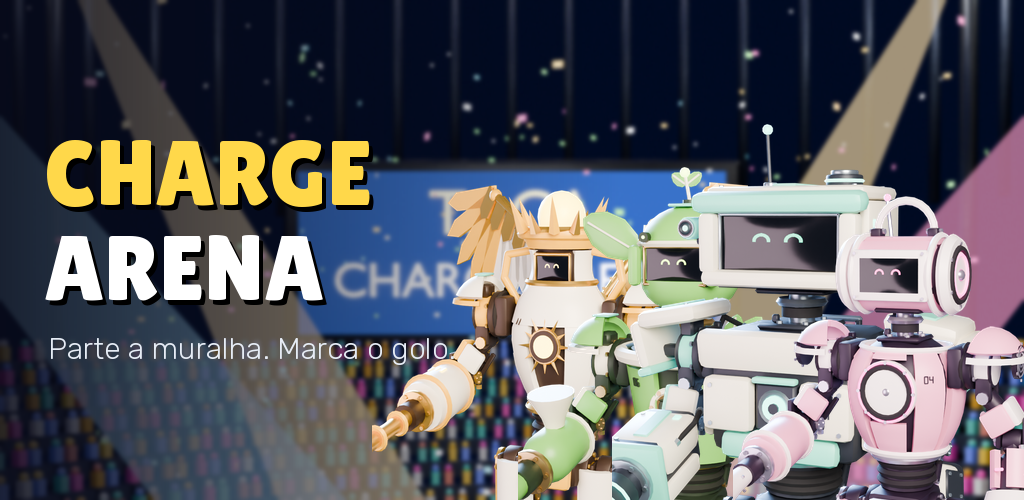
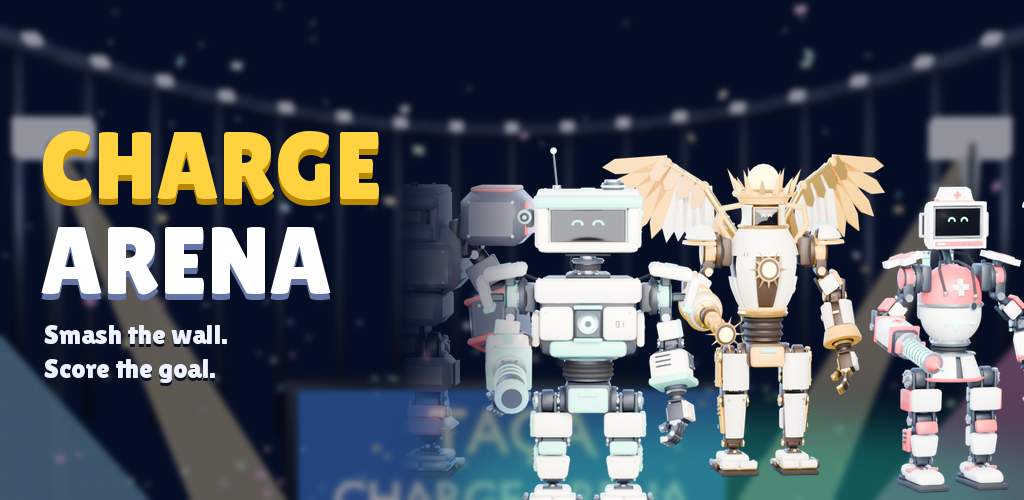
Imagem de destaque da loja com o elenco novo (BATIDA, ROSCA e ECLIPSE redesenhados)
tools/blender/hero_lineup.py renderiza o elenco lado a lado, de corpo inteiro.

Claude-Session: https://claude.ai/code/session_013KJk6qvd1GbsmYQztrRAPe

diff --git a/tools/blender/hero_lineup.py b/tools/blender/hero_lineup.py
@@ -1,0 +1,81 @@
+"""O elenco do Charge Arena lado a lado, de corpo inteiro, para o site e a imagem de destaque da loja.
+
+    python3 tools/blender/hero_lineup.py [saida.png] [--quick]
+
+Usa as mesmas receitas, materiais e luz de estúdio dos retratos da história
+(tools/blender/story_portraits.py) e renderiza com fundo transparente, em 3840x1600.
+"""
+import math
+import sys
+from pathlib import Path
+
+sys.path.insert(0, str(Path(__file__).resolve().parent))
+import bpy  # noqa: E402,F401
+from mathutils import Matrix, Vector  # noqa: E402
+
+import story_portraits as sp  # noqa: E402
+
+W, H = 3840, 1600
+# (skin, x, z, rotação em graus): o BIT ao centro, à frente; os maiores atrás.
+CAST = [
+    (0, 0.0, -0.7, 0),      # BIT
+    (10, -1.15, 0.8, 8),    # HÉLIO
+    (11, 1.25, 0.85, -8),   # MAGNUS
+    (8, -2.3, 0.1, 14),     # BATIDA
+    (6, 2.35, 0.15, -14),   # ROSCA
+    (5, -3.45, 0.7, 18),    # ECLIPSE
+    (7, 3.5, 0.6, -18),     # FAÍSCA
+    (9, -4.6, 0.0, 24),     # GANCHO
+    (2, 4.6, 0.05, -24),    # ÓRBITA
+    (3, -5.6, -0.45, 28),   # BROTO
+    (4, 5.65, -0.4, -28),   # BIGORNA
+]
+
+
+def main():
+    args = sys.argv[sys.argv.index("--") + 1:] if "--" in sys.argv else sys.argv[1:]
+    quick = "--quick" in args
+    out = next((a for a in args if not a.startswith("--")), str(sp.ROOT / "store" / "hero_lineup.png"))
+    objects = sp.rk.build_kit()
+    objects.update(sp.import_redesigns())
+    for obj in objects.values():
+        obj.hide_render = True
+        for child in obj.children:
+            child.hide_render = True
+    cam = sp.studio(16 if quick else 40)
+    scene = bpy.context.scene
+    scene.render.resolution_x = W // 4 if quick else W
+    scene.render.resolution_y = H // 4 if quick else H
+    origin = sp.godot((0, 0, 0))
+    for skin, x, z, turn in CAST:
+        entry = sp.recipe(skin, sp.TEAM)
+        mats = sp.materials(entry["palette"], "happy", False)
+        created, _shape = sp.assemble(objects, entry, mats)
+        move = Matrix.Translation(sp.godot((x, 0, z)) - origin) @ Matrix.Rotation(math.radians(turn), 4, "Z")
+        for obj in created:
+            obj.matrix_world = move @ obj.matrix_world
+    # Uma luz de frente larga para o grupo inteiro, além das três do estúdio.
+    fill = bpy.data.objects.new("Fill", bpy.data.lights.new("Fill", "AREA"))
+    fill.data.energy = 2600
+    fill.data.size = 9.0
+    fill.location = sp.godot((0, 3.0, -7.0))
+    fill.rotation_euler = (sp.godot((0, 1.2, 0)) - fill.location).to_track_quat("-Z", "Y").to_euler()
+    bpy.context.collection.objects.link(fill)
+    rim = bpy.data.objects.new("Rim", bpy.data.lights.new("Rim", "AREA"))
+    rim.data.energy = 3000
+    rim.data.size = 10.0
+    rim.data.color = sp.rk.hex_rgb("9ec8ff")
+    rim.location = sp.godot((0, 4.0, 5.0))
+    rim.rotation_euler = (sp.godot((0, 1.2, 0)) - rim.location).to_track_quat("-Z", "Y").to_euler()
+    bpy.context.collection.objects.link(rim)
+    cam.data.sensor_fit = "HORIZONTAL"
+    cam.data.angle = math.radians(38)
+    focus = Vector((0, 1.25, 0.4))
+    eye = focus + Vector((0, 0.08, -1.0)).normalized() * 19.0
+    cam.location = sp.godot(eye)
+    cam.rotation_euler = (sp.godot(focus) - cam.location).to_track_quat("-Z", "Y").to_euler()
+    sp.render(out)
+
+
+if __name__ == "__main__":
+    main()
